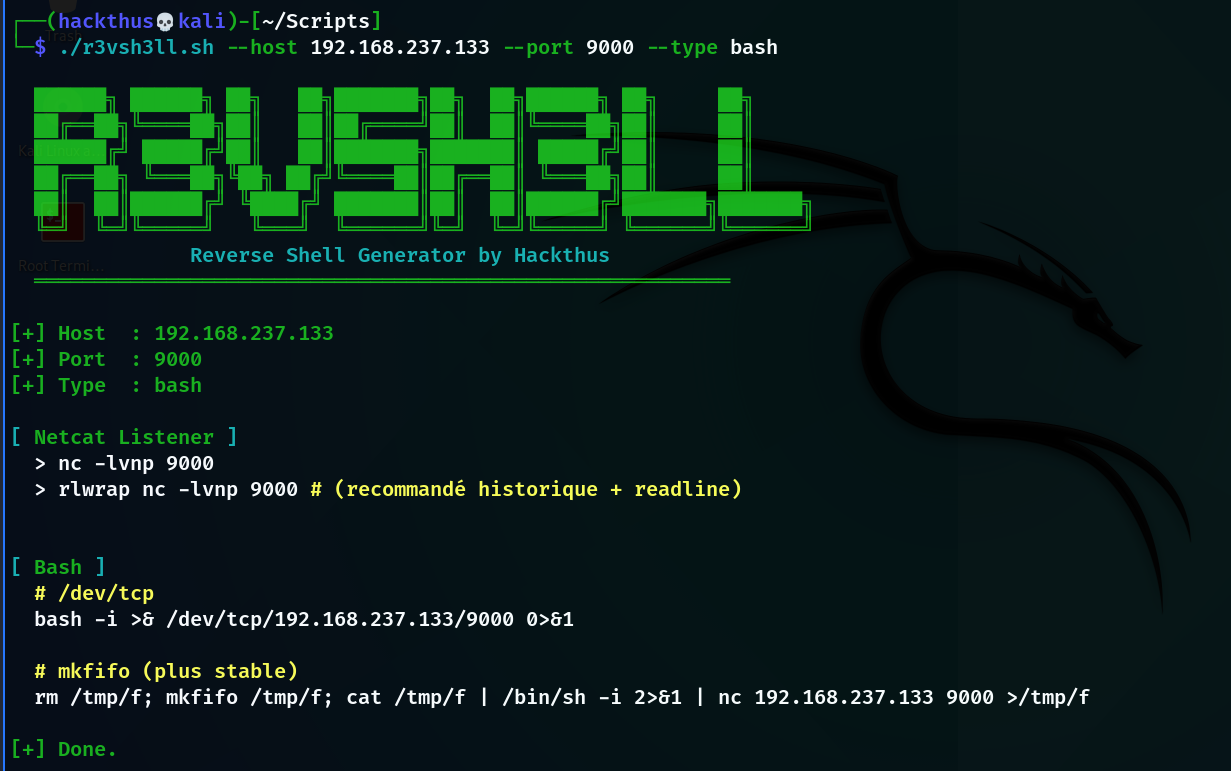
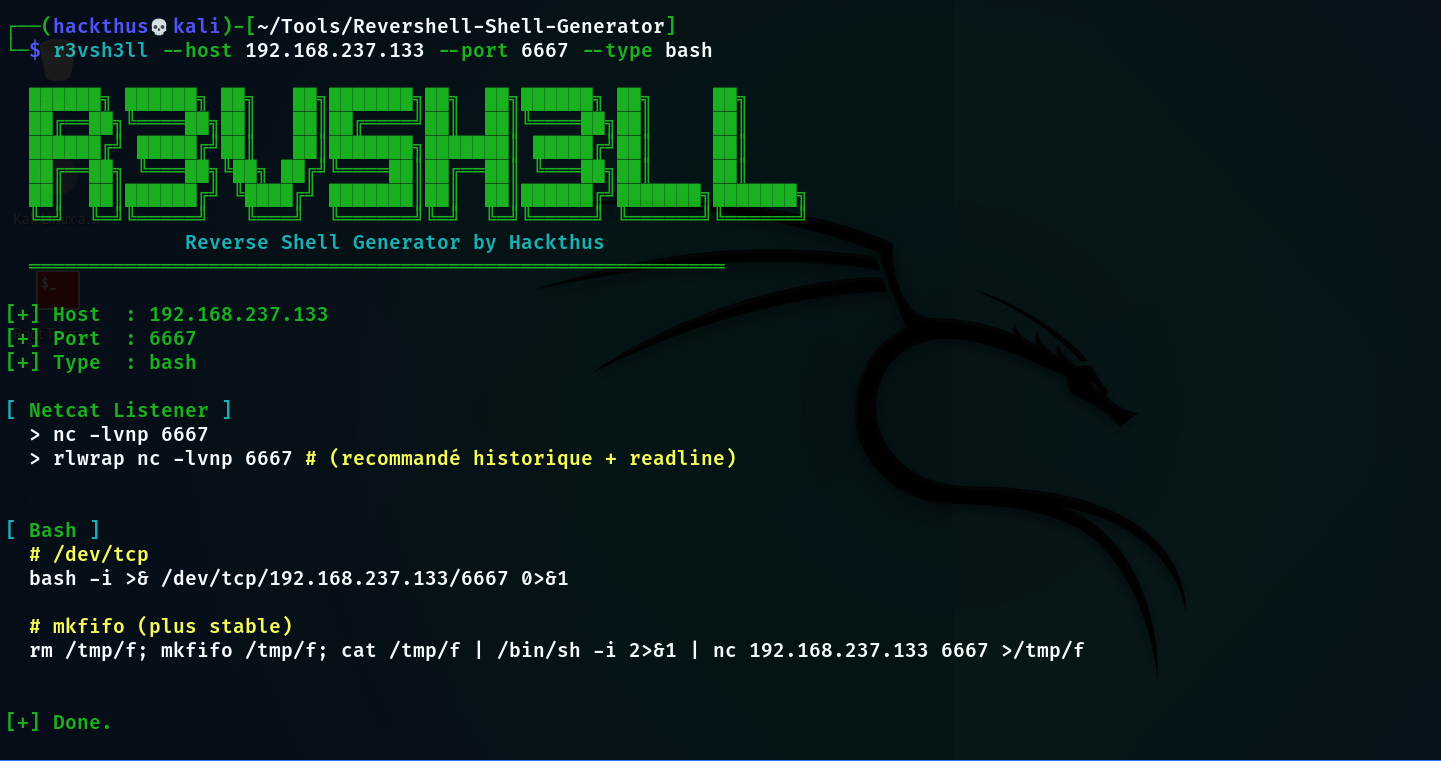
update README.md

Changed region(s): [[0.0, 0.0, 1.0, 1.0]]

diff --git a/README.md b/README.md
@@ -113,9 +113,10 @@ Le script affiche :
 
 Exemple :
 ```bash
-./r3vsh3ll.sh --host 192.168.237.133 --port 6667 --type bash
+r3vsh3ll --host 192.168.237.133 --port 6667 --type bash
 ```
 Démarrage du script et mise en écoute
+Vous pouvez utiliser n'importe quel type de listener
 
 ![Listener](Listener.png)
 
@@ -126,6 +127,7 @@ Exécution du payload sur la cible
 Récupération de la connection (revershell)
 
 ![revershell](reverse-shell.png)
+
 ---
 
 ## ⚠ Avertissement
@@ -138,9 +140,8 @@ Ce projet est destiné uniquement à :
  Toute utilisation non autorisée est illégale.
 
 
-##  Auteur
 
-**Hackthus**
+**Mr Hackthus**
 
 ---
 
